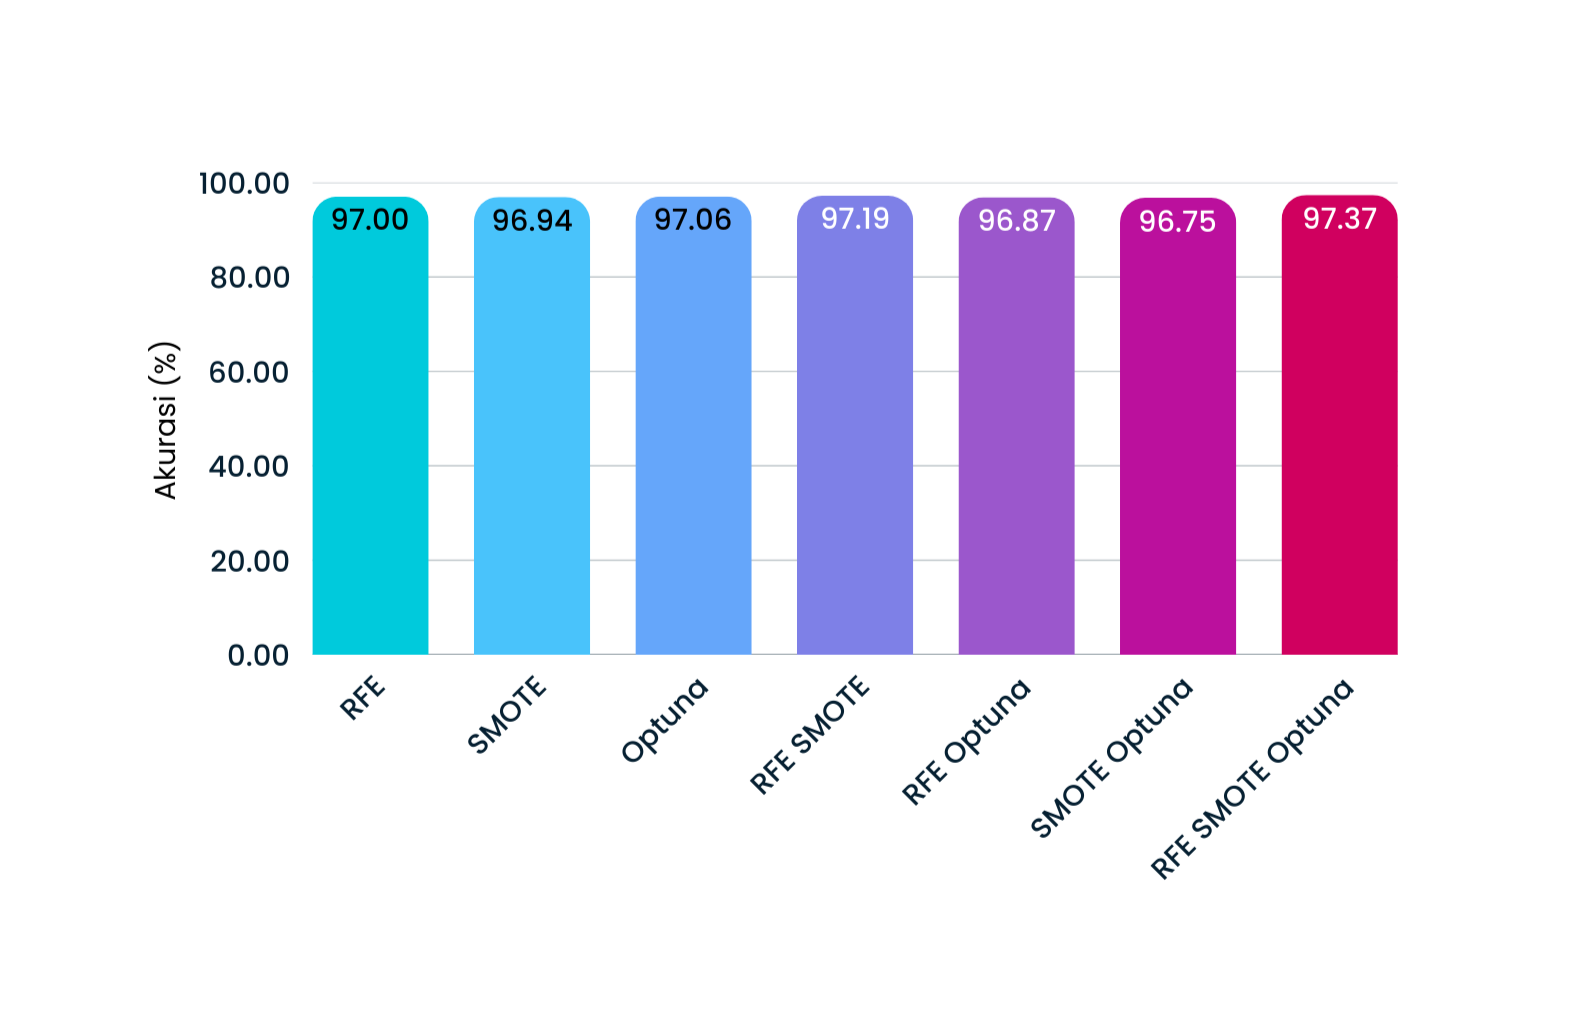
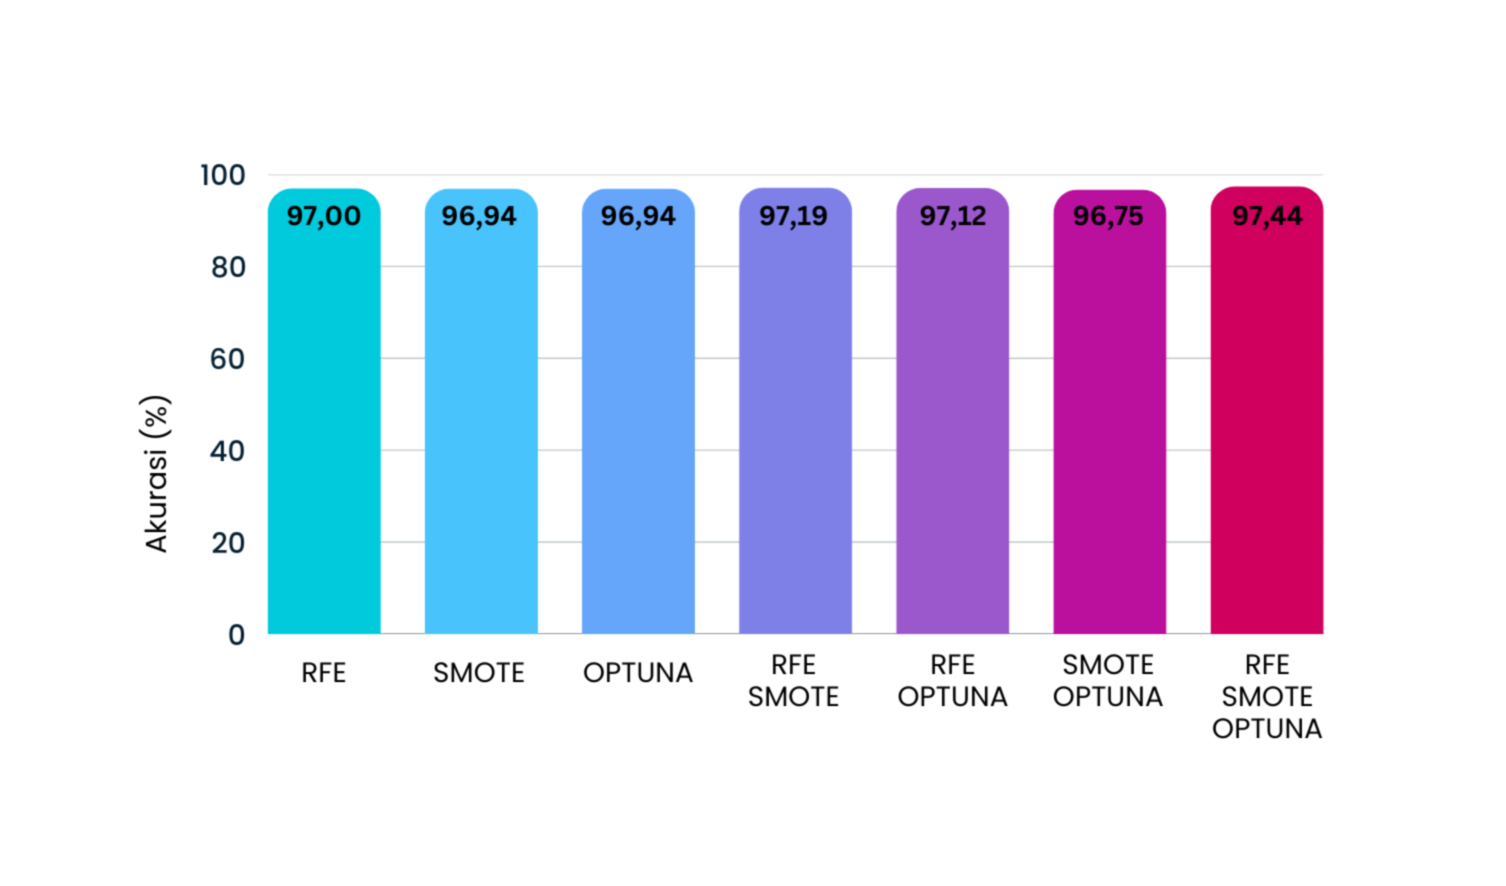
change picture

Changed region(s): [[0.0936, 0.1524, 0.905, 0.8533]]

diff --git a/app/templates/model.html b/app/templates/model.html
@@ -65,14 +65,14 @@
         </div>
         <p class="text-xl font-semibold text-black font-serif">Confussion Matrix of Proposed Model</p>
         <p class="text-black font-sans xl:w-[30rem] text-justify">
-            This figure shows that the model is very accurate in detecting the class “Not Safe,” with 1397 correct predictions and only 20 errors. For the class "Safe," the model produced 160 correct predictions but still had 22 errors. Even though the data was balanced using SMOTE oversampling, the model was still superior in detecting "Not Safe." This may be due to the complexity of the features in the "Safe" class, so further analysis is needed to improve the prediction accuracy in this class.</p>
+            This figure shows that the model is very accurate in detecting the class “Not Safe,” with 1402 correct predictions and only 15 errors. For the class "Safe," the model produced 156 correct predictions but still had 26 errors. Even though the data was balanced using SMOTE oversampling, the model was still superior in detecting "Not Safe." This may be due to the complexity of the features in the "Safe" class, so further analysis is needed to improve the prediction accuracy in this class.</p>
     </div>
     <div class="flex flex-col gap-2">
         <div class="relative">
             <img src="{{ url_for('static', filename='img/comparative.png') }}" alt="water" class="xl:w-[30rem] xl:h-64 object-cover rounded-xl border border-slate-500">
         </div>
         <p class="text-xl font-semibold text-black font-serif">Accuracy Comparison</p>
-        <p class="text-black font-sans xl:w-[30rem] text-justify">Based on the graph, LGBM combined with the “RFE SMOTE OPTUNA” method gives the highest accuracy of 97.37%, indicating the combination of LGBM with RFE, SMOTE, and OPTUNA is very effective for Water Quality Index classification. The "SMOTE Optuna" method has the lowest accuracy, which is 96.75%. Overall, all methods produced high accuracy (above 96.50%), with the combination of techniques tending to improve model performance.</p>    
+        <p class="text-black font-sans xl:w-[30rem] text-justify">Based on the graph, LGBM combined with the “RFE SMOTE OPTUNA” method gives the highest accuracy of 97.44%, indicating the combination of LGBM with RFE, SMOTE, and OPTUNA is very effective for Water Quality Index classification. The "SMOTE Optuna" method has the lowest accuracy, which is 96.75%. Overall, all methods produced high accuracy (above 96.50%), with the combination of techniques tending to improve model performance.</p>    
     </div>
     <div class="flex flex-col gap-2">
         <div class="relative">
@@ -80,7 +80,7 @@
         </div>
         <p class="text-xl font-semibold text-black font-serif">Classification Report of Proposed Model</p>
         <p class="text-black font-sans xl:w-[30rem] text-justify">
-            The classification report for the LGBMClassifier shows a high overall accuracy of 97.37% in predicting water quality as "Safe" or "Not Safe". The model performs exceptionally well for the "Not Safe" class, with a precision of 98.45%, recall of 98.59%, and F1-score of 95.52%. For the "Safe" class, the precision is 88.89%, recall 87.91%, and F1-score 88.40%, indicating slightly lower performance but still effective. The macro average F1-score of 93.46% and weighted average F1-score of 97.37% confirm that the model handles class imbalance well and delivers strong predictive performance.</p>    
+            The classification report for the LGBMClassifier shows a high overall accuracy of 97.44% in predicting water quality as "Safe" or "Not Safe". The model performs exceptionally well for the "Not Safe" class, with a precision of 98.18%, recall of 98.94%, and F1-score of 98.56%. For the "Safe" class, the precision is 91.23%, recall 87.91%, and F1-score 85.71%, indicating slightly lower performance but still effective. The macro average F1-score of 88.39% and weighted average F1-score of 97.37% confirm that the model handles class imbalance well and delivers strong predictive performance.</p>    
     </div>
     <div class="flex flex-col gap-2">
         <div class="relative">
